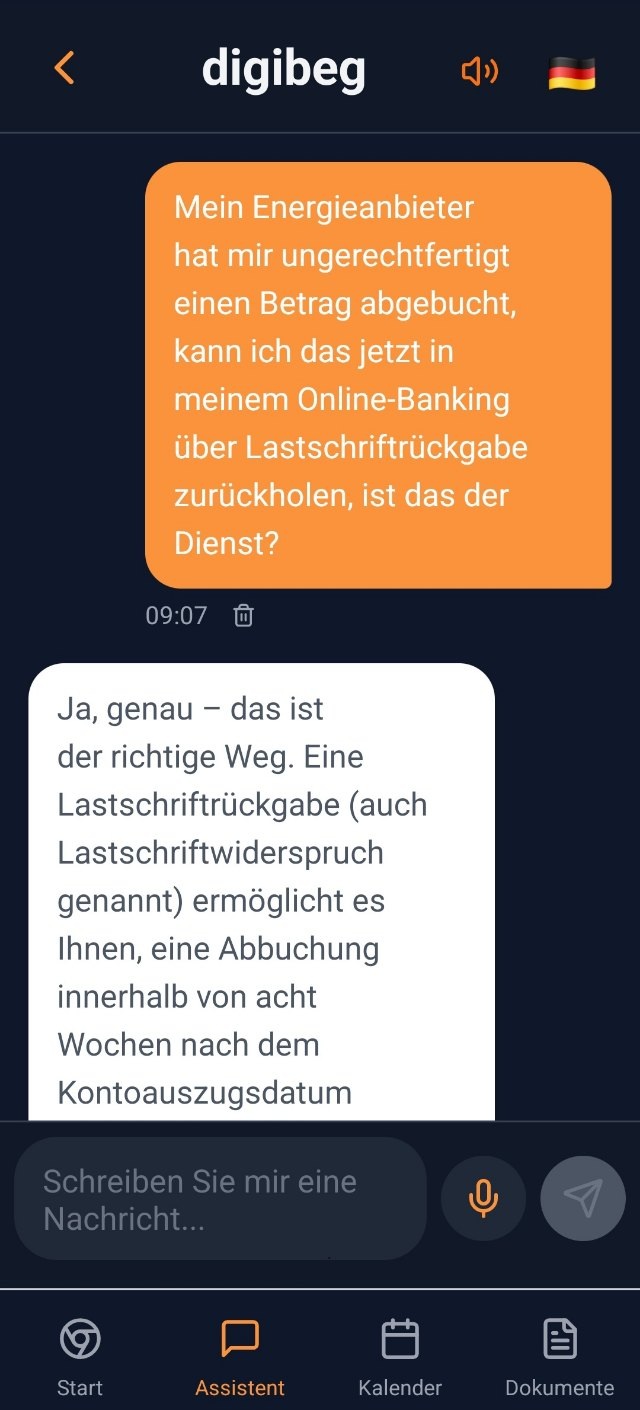
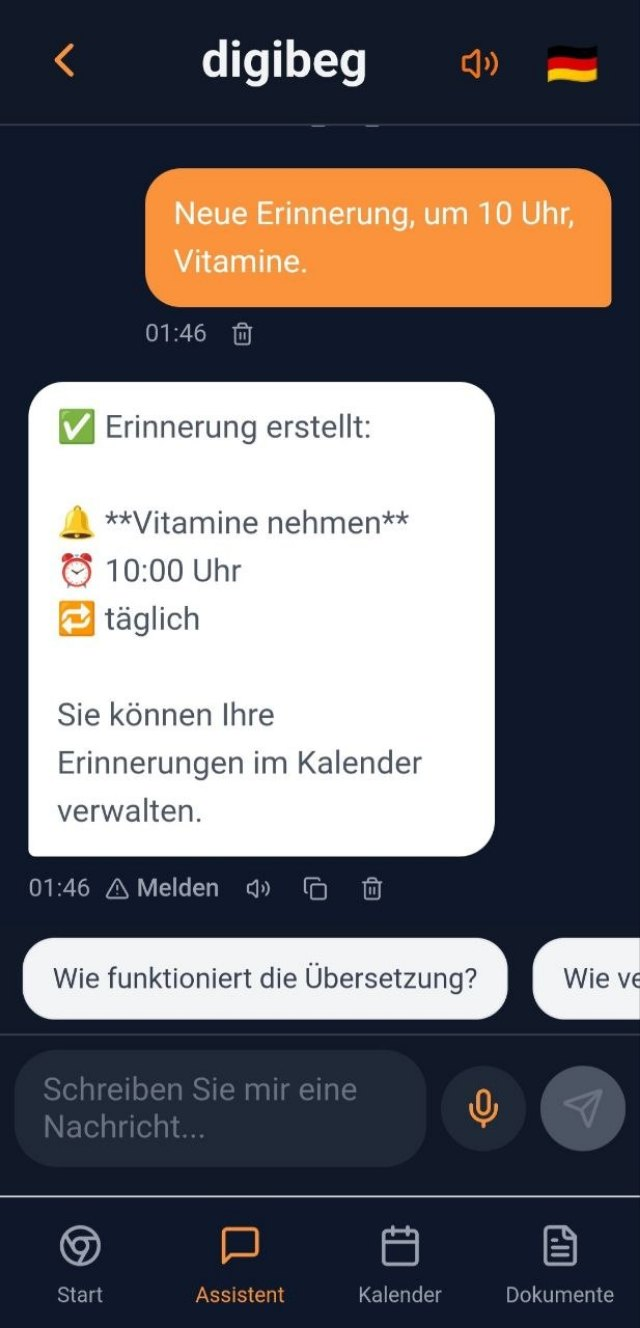
Ablauf Schritt 3: Screenshot mit taeglicher Erinnerung (DE/EN)
Original screenshots/assistent-3.jpg, 640px-Varianten ersetzt,
Alt-Texte angepasst.

diff --git a/index-en.html b/index-en.html
@@ -306,7 +306,7 @@
                   </picture>
                   <picture class="flow__shot">
                     <source srcset="assets/screens/flow-assistent-640.webp" type="image/webp" />
-                    <img src="assets/screens/flow-assistent-640.jpg" alt="Step 3 in the app: chat with the assistant, a follow-up question about reversing a direct debit is answered clearly (German app interface)" width="640" height="1410" loading="lazy" decoding="async" />
+                    <img src="assets/screens/flow-assistent-640.jpg" alt="Step 3 in the app: chat with the assistant, a daily 10 a.m. reminder to take vitamins was created by message (German app interface)" width="640" height="1328" loading="lazy" decoding="async" />
                   </picture>
                 </div>
               </div>
@@ -358,7 +358,7 @@
                     <div class="phone__screen">
                       <picture>
                         <source srcset="assets/screens/flow-assistent-640.webp" type="image/webp" />
-                        <img src="assets/screens/flow-assistent-640.jpg" alt="Chat with the assistant in the app: a follow-up question about reversing a direct debit is answered clearly (German app interface)" width="640" height="1410" loading="lazy" decoding="async" />
+                        <img src="assets/screens/flow-assistent-640.jpg" alt="Chat with the assistant in the app: a daily 10 a.m. reminder to take vitamins was created by message (German app interface)" width="640" height="1328" loading="lazy" decoding="async" />
                       </picture>
                     </div>
                   </div>

diff --git a/index.html b/index.html
@@ -306,7 +306,7 @@
                   </picture>
                   <picture class="flow__shot">
                     <source srcset="assets/screens/flow-assistent-640.webp" type="image/webp" />
-                    <img src="assets/screens/flow-assistent-640.jpg" alt="Schritt 3 in der App: Chat mit dem Assistenten, eine Nachfrage zur Lastschriftrückgabe wird verständlich beantwortet" width="640" height="1410" loading="lazy" decoding="async" />
+                    <img src="assets/screens/flow-assistent-640.jpg" alt="Schritt 3 in der App: Chat mit dem Assistenten, eine tägliche Erinnerung „Vitamine nehmen“ um 10 Uhr wurde per Nachricht angelegt" width="640" height="1328" loading="lazy" decoding="async" />
                   </picture>
                 </div>
               </div>
@@ -358,7 +358,7 @@
                     <div class="phone__screen">
                       <picture>
                         <source srcset="assets/screens/flow-assistent-640.webp" type="image/webp" />
-                        <img src="assets/screens/flow-assistent-640.jpg" alt="Chat mit dem Assistenten in der App: Eine Nachfrage zur Lastschriftrückgabe wird verständlich beantwortet" width="640" height="1410" loading="lazy" decoding="async" />
+                        <img src="assets/screens/flow-assistent-640.jpg" alt="Chat mit dem Assistenten in der App: Eine tägliche Erinnerung „Vitamine nehmen“ um 10 Uhr wurde per Nachricht angelegt" width="640" height="1328" loading="lazy" decoding="async" />
                       </picture>
                     </div>
                   </div>
